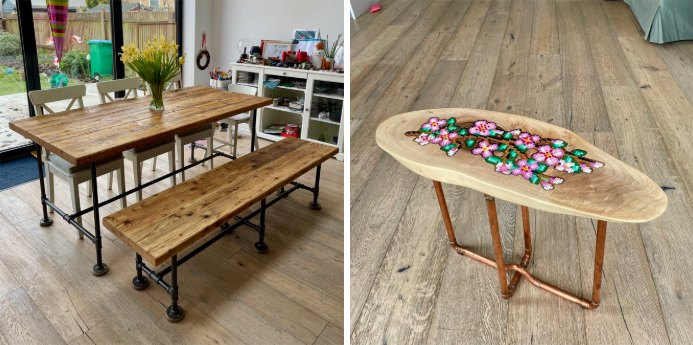
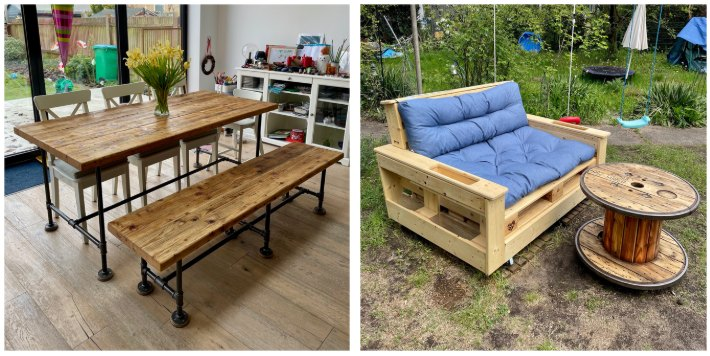
TinyWorkshop cover: dining table and pallet sofa
Claude-Session: https://claude.ai/code/session_01DGcE7gYRL8d8HPm1fsyEFw

diff --git a/index.html b/index.html
@@ -596,7 +596,7 @@
                         </div>
                     </article>
                     <article class="project-card">
-                        <div class="project-cover"><img src="img/projects/tinyworkshop.jpg" alt="Dining table with bench and a cherry-blossom epoxy table from TinyWorkshop" loading="lazy"></div>
+                        <div class="project-cover"><img src="img/projects/tinyworkshop.jpg" alt="Dining table with bench and a pallet sofa with cable-drum side table from TinyWorkshop" loading="lazy"></div>
                         <h4>TinyWorkshop – Woodworking</h4>
                         <p data-i18n="projects.workshop">A journey into woodworking that started with small projects and grew into a full workshop. From basic hand tools to advanced machinery, every project represents learning by doing. Explore my creations, techniques, and the evolution of my craft over the years.</p>
                         <div class="project-tags"><span class="tag">Woodworking</span><span class="tag">DIY</span><span class="tag">Craftsmanship</span></div>
